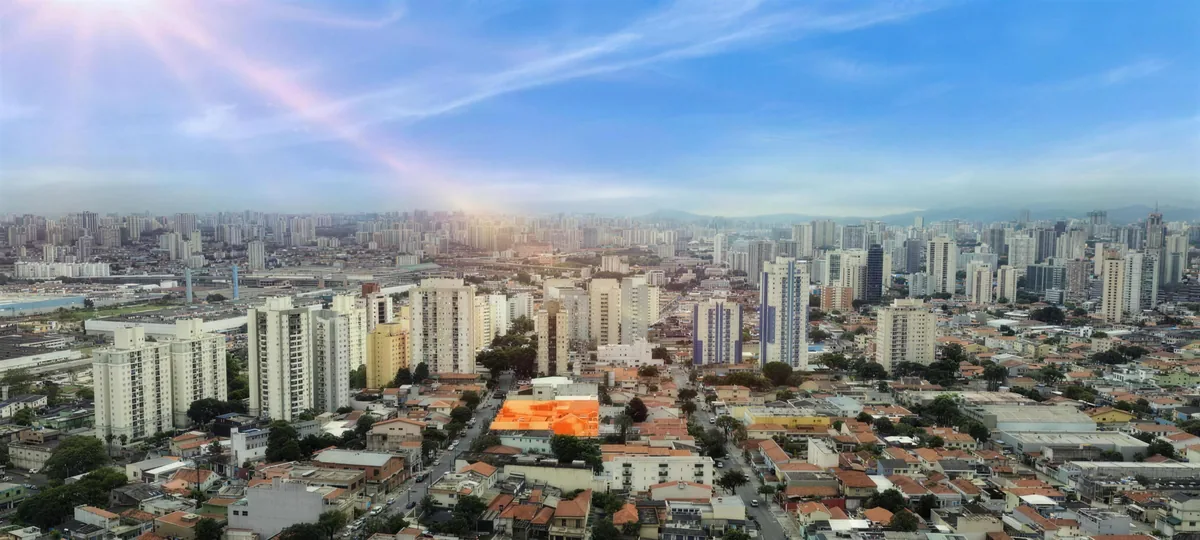
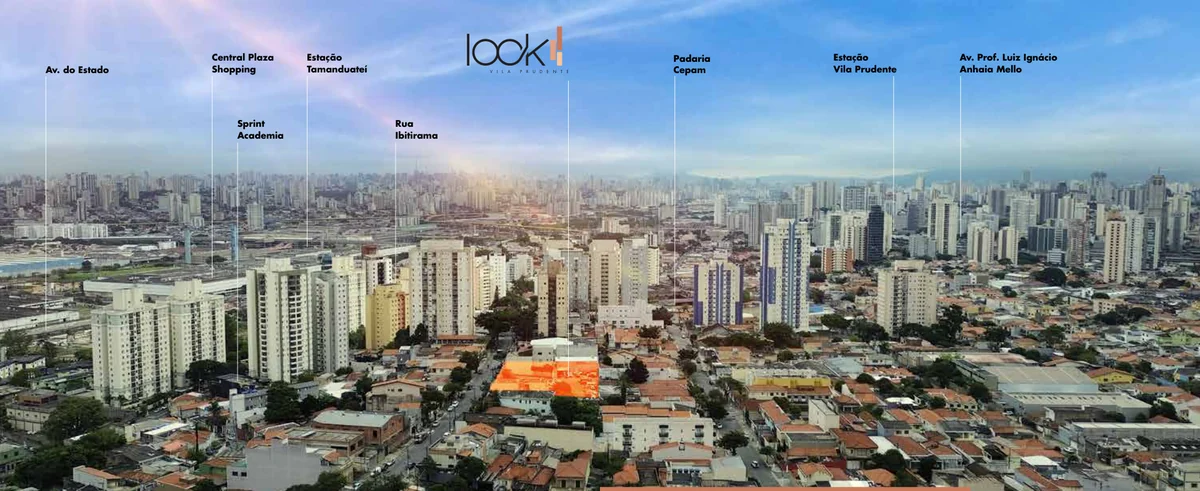
Aerea de localizacao passa a ser a composicao do book, com os pins
A imagem que estava no ar era so a foto embutida no PDF. Os pins sao vetor
desenhado por cima na pagina, entao eles nao vinham junto.

Agora a imagem e a composicao renderizada direto da pagina 5 do folheto, na
resolucao nativa do vetor, com os oito pontos de referencia e as linhas guia
ate cada local: Av. do Estado, Central Plaza Shopping, Estacao Tamanduatei,
Sprint Academia, Rua Ibitirama, Padaria Cepam, Estacao Vila Prudente e Av.
Prof. Luiz Ignacio Anhaia Mello. O terreno segue destacado em laranja.

O titulo da pagina do folheto ficou de fora do recorte porque a secao ja o
traz como texto, e os nomes dos pontos entraram no alt da imagem.

diff --git a/index.html b/index.html
@@ -247,7 +247,7 @@
     <figure class="aerea reveal" style="margin-top:44px">
       <img src="assets/img/aerea-localizacao-1920.webp"
            srcset="assets/img/aerea-localizacao-760.webp 760w, assets/img/aerea-localizacao-1200.webp 1200w, assets/img/aerea-localizacao-1920.webp 1920w"
-           sizes="100vw" alt="Foto aérea da região da Vila Prudente com a localização do empreendimento" width="1920" height="864" loading="lazy"
+           sizes="100vw" alt="Foto aérea da Vila Prudente com o terreno do LOOK em destaque e os pontos de referência do entorno: Av. do Estado, Central Plaza Shopping, Estação Tamanduateí, Sprint Academia, Rua Ibitirama, Padaria Cepam, Estação Vila Prudente e Av. Prof. Luiz Ignácio Anhaia Mello" width="1920" height="786" loading="lazy"
            data-full="assets/img/aerea-localizacao-1920.webp" style="cursor:zoom-in" id="img-aerea">
     </figure>
 
